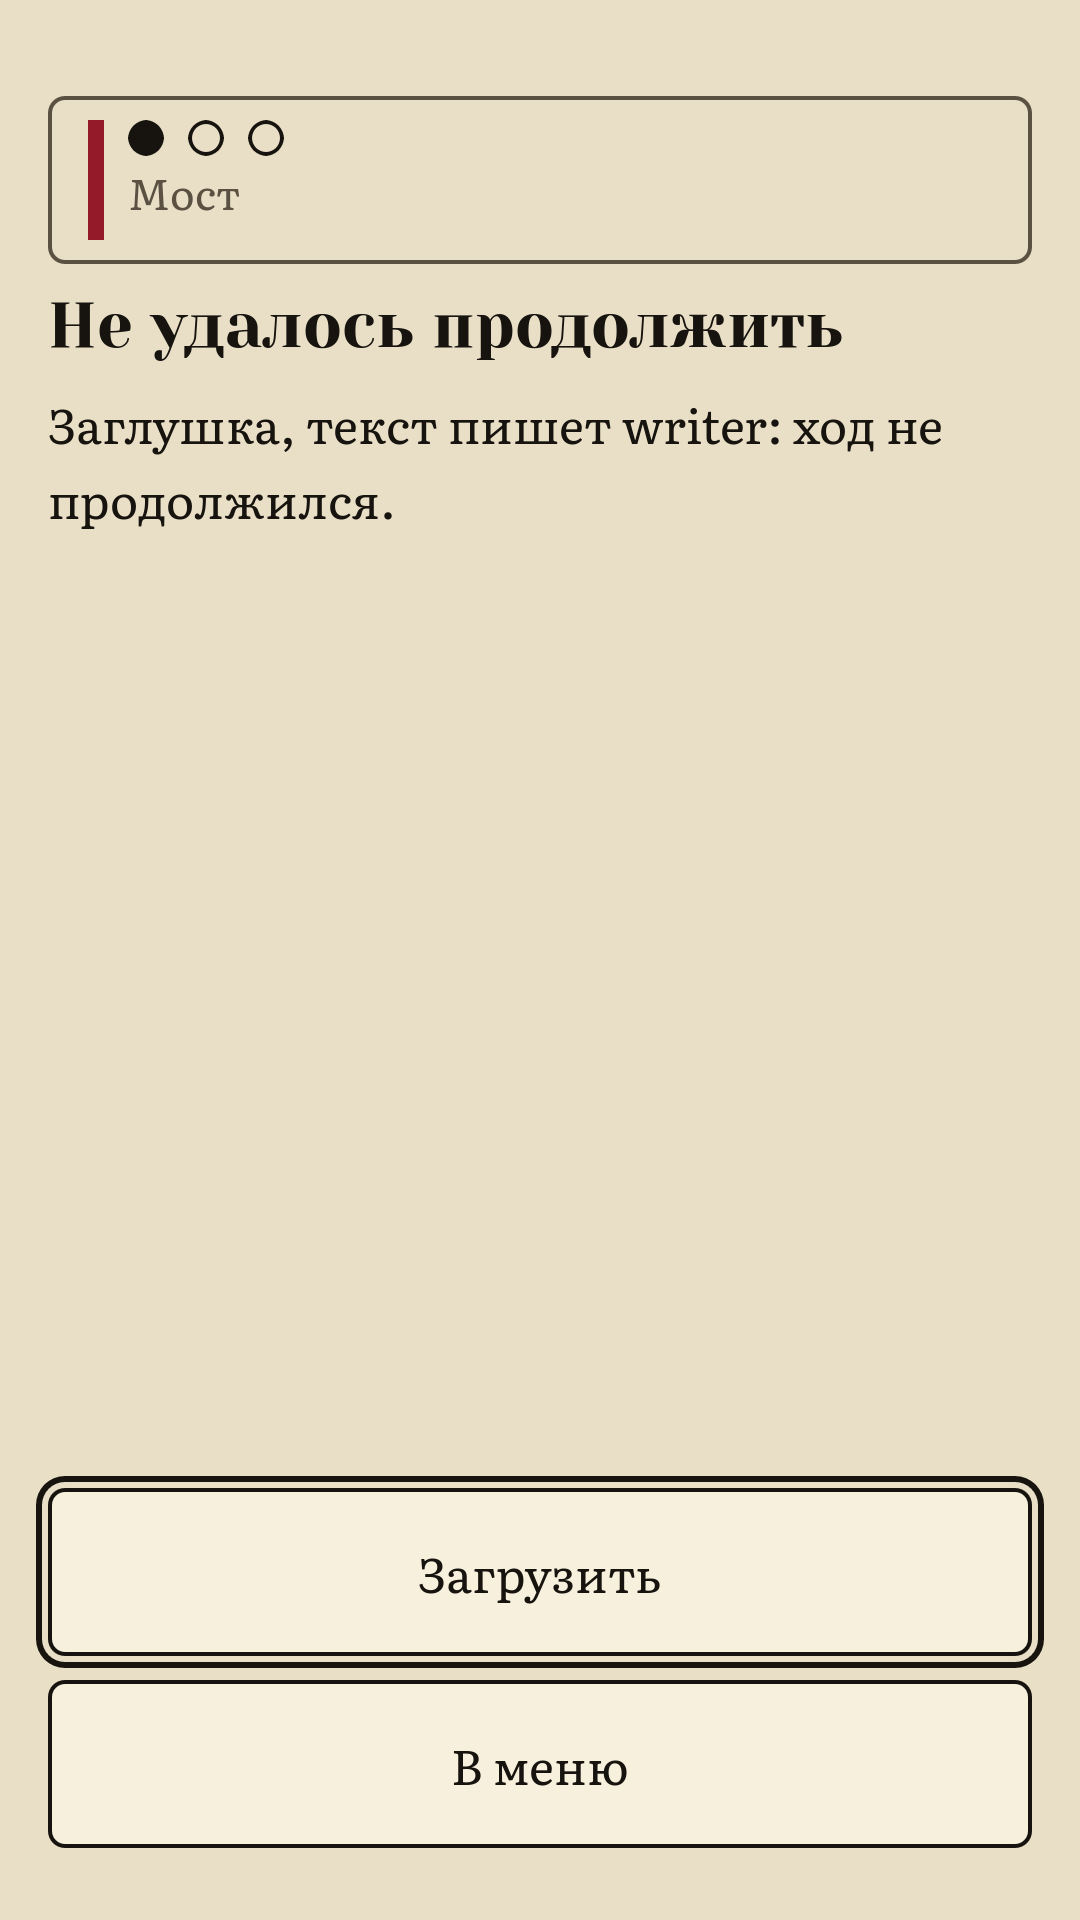
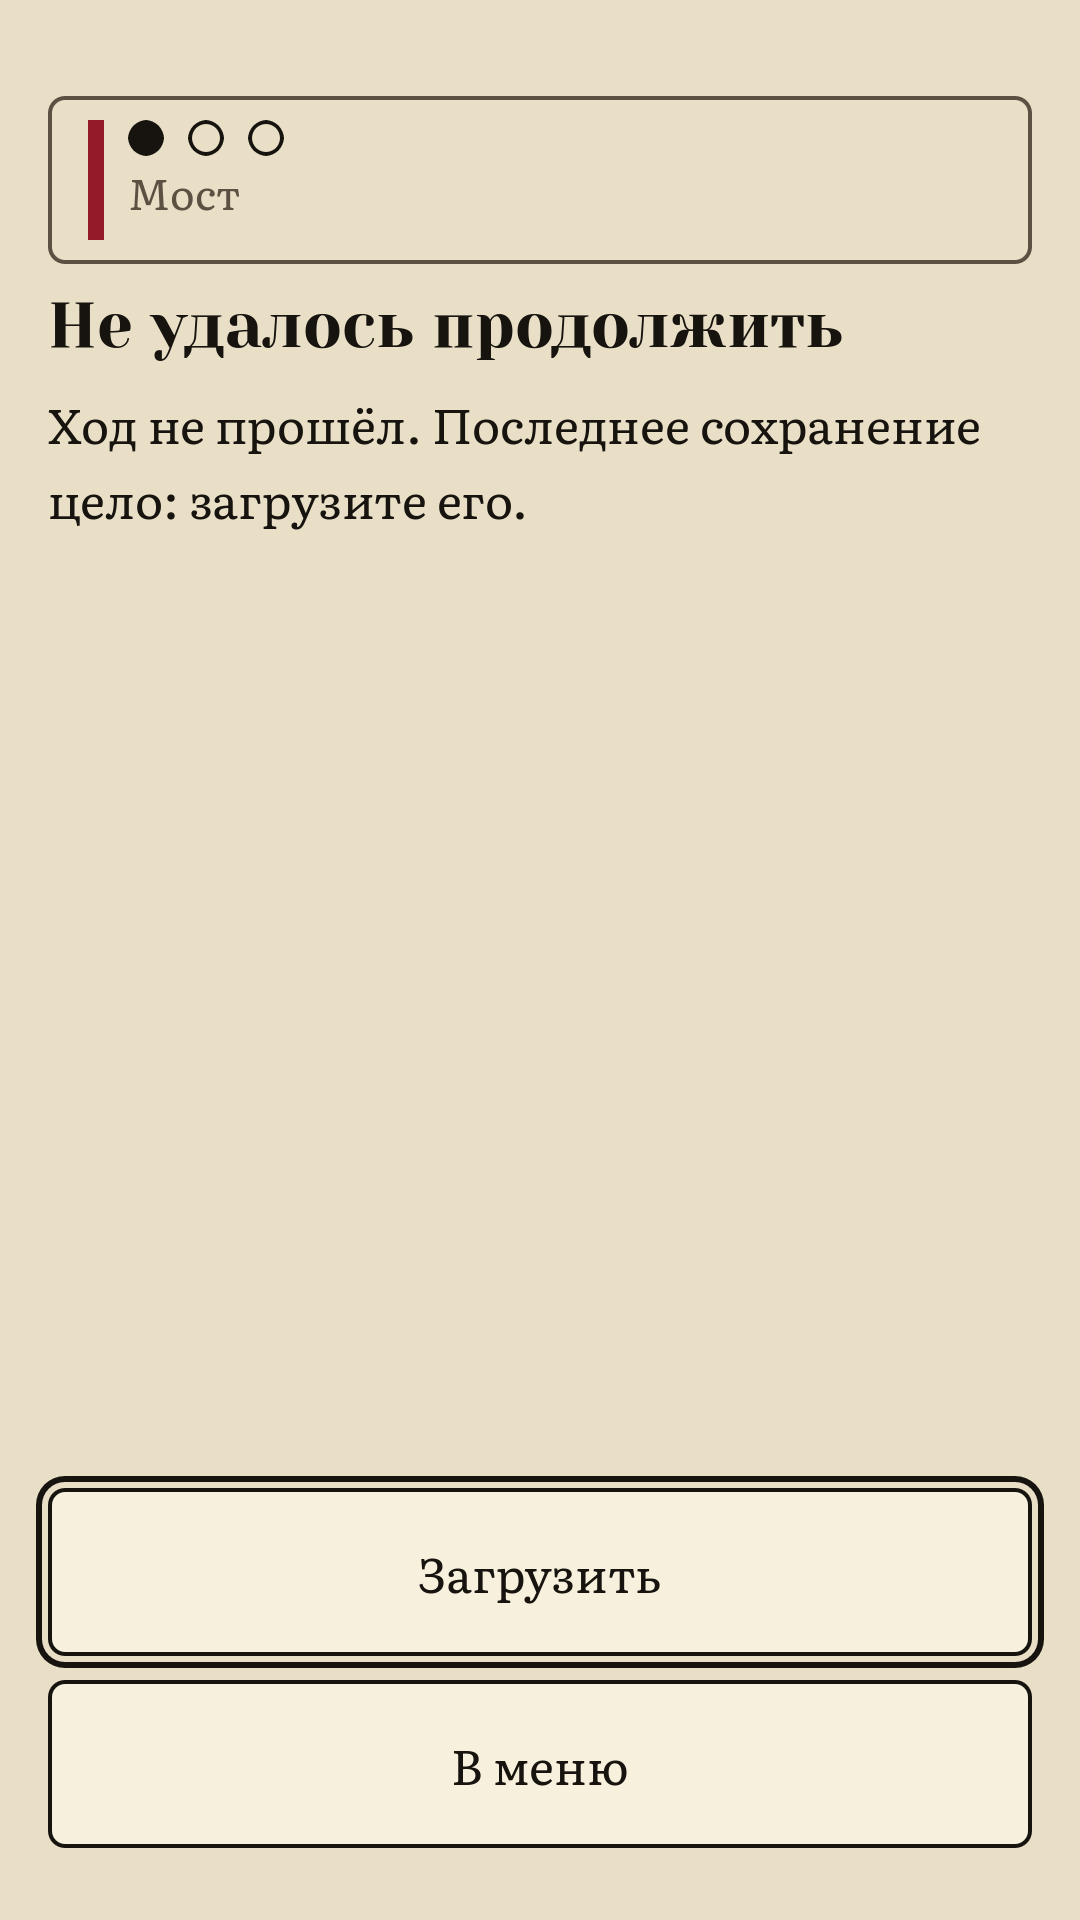
fix: story RC2 audit round 1 — «В меню» and Back never lock «Загрузить», EMPTY and failed loads keep the slot and return the buttons, flow error kept on a CORRUPT load (no dead cards), approved explanation line, screenshots re-taken (1003 tests green)
Story: RC2

Claude-Session: https://claude.ai/code/session_01P3e8YNZLRk3tosmdTrfkwg

Changed region(s): [[0.0611, 0.2188, 0.9167, 0.2812]]

diff --git a/USER_PREFERENCES.md b/USER_PREFERENCES.md
@@ -266,3 +266,4 @@
 ### Сбой хода после броска (2026-11-19)
 - Исход броска не применён по «Продолжить» (ошибка потока, d20 OQ 18, СВ Э-23): «Экран броска» закрывается, игрок видит отдельный короткий экран «Не удалось продолжить» с кнопками «Загрузить» (последнее сохранение; тот же итог броска, исход применяется один раз) и «В меню». По образцу READ_ERROR. Заблокированные варианты с одной кнопкой «В меню» — не показывать.
 - Тот же экран «Не удалось продолжить» — на любую ошибку потока хода, в том числе при выборе варианта без проверки. «Назад» на нём = «В меню»; сохранение не трогается. Экран пока описан в спеке «Экран чтения». (2026-11-19)
+- Строка пояснения экрана «Не удалось продолжить» (общая для пути с броском и без): «Ход не прошёл. Последнее сохранение цело: загрузите его.» (2026-11-19)
